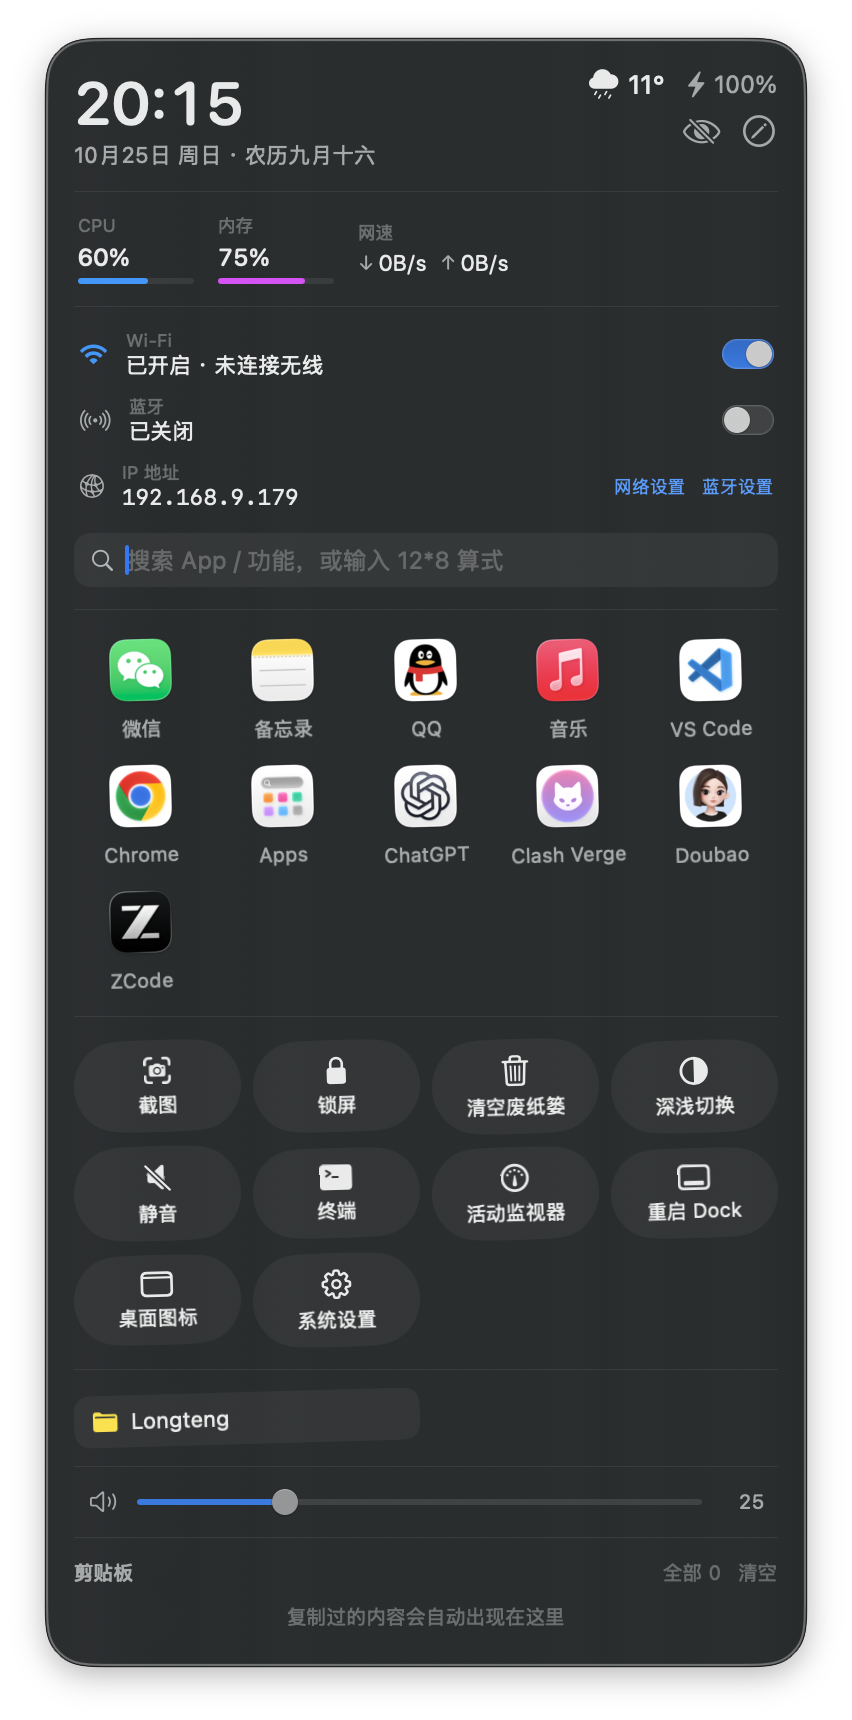
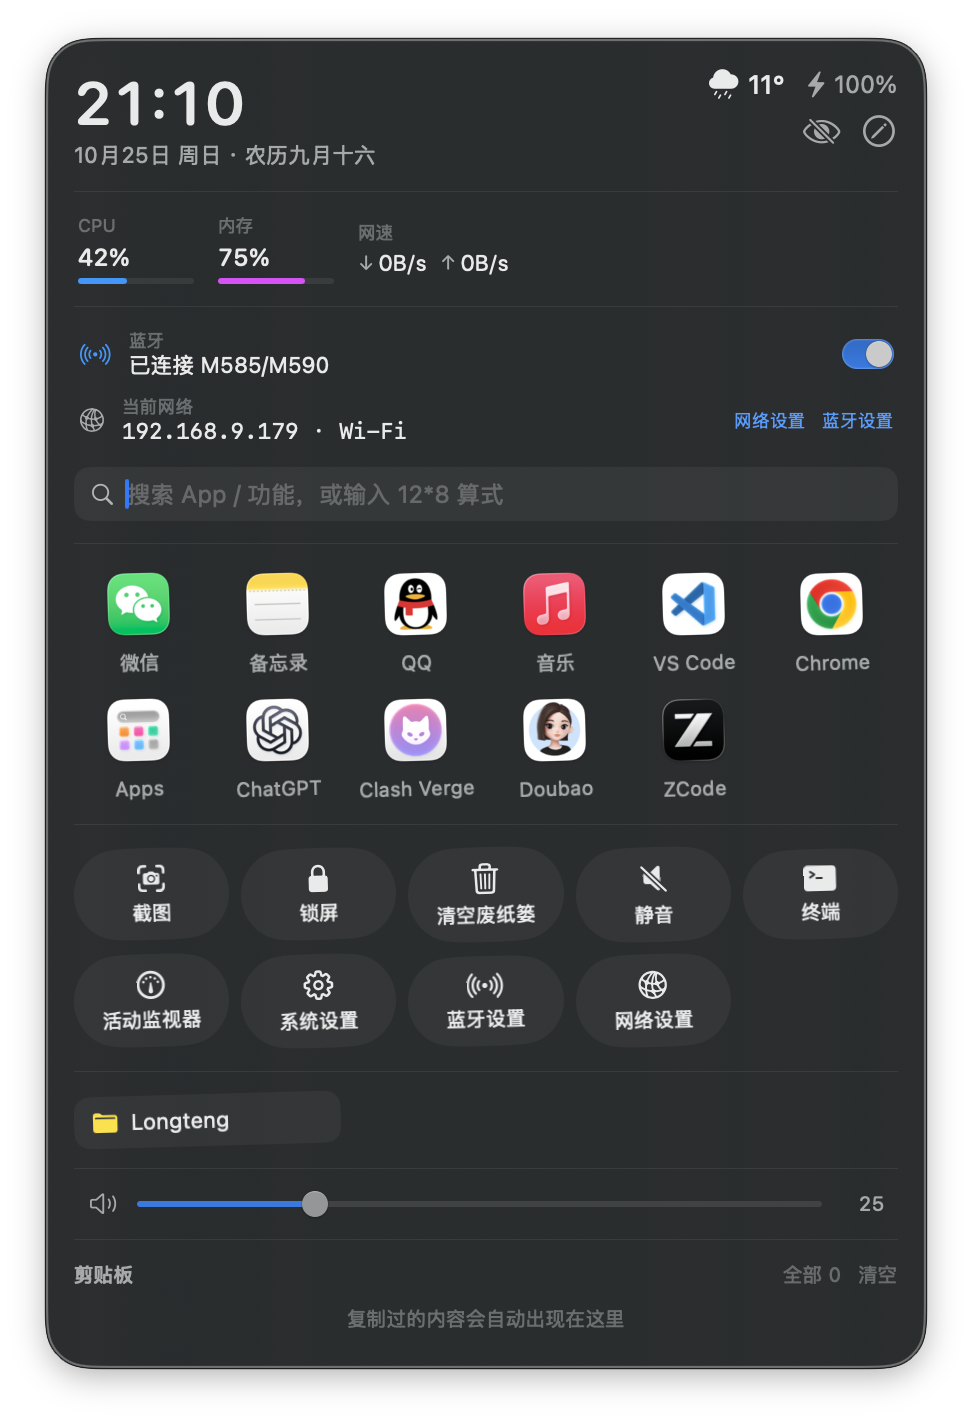
v1.5.2：按需求移除面板 Wi-Fi 开关行
网络区块保留蓝牙开关与当前网络两行；移除 CoreWLAN 依赖，
WiFiControl 精简为纯网络状态（默认路由 + IP + 类型标签）

diff --git a/Sources/QuickDeck/WirelessControl.swift b/Sources/QuickDeck/WirelessControl.swift
@@ -1,16 +1,13 @@
 import AppKit
 import Combine
-import CoreWLAN
 import Darwin
 import IOBluetooth
 import SwiftUI
 
-// MARK: - Wi-Fi / 网络状态控制（networksetup + CoreWLAN + 默认路由）
+// MARK: - 当前网络状态（默认路由接口 + 类型标签；macOS 14+ 下 SSID 探测会被打码误报，不用它）
 
 final class WiFiControl: ObservableObject {
-    @Published private(set) var isOn = false
-    @Published private(set) var ssid: String?
-    /// 当前真正上网用的接口（默认路由），比 SSID 探测可靠——macOS 14+ 无定位权限时 SSID 会被打码甚至误报未关联
+    /// 当前真正上网用的接口（默认路由出口）
     @Published private(set) var primaryInterface: String?
     @Published private(set) var primaryIP: String?
     @Published private(set) var primaryLabel = ""
@@ -28,7 +25,7 @@ final class WiFiControl: ObservableObject {
         )
     }
 
-    /// 从硬件端口列表里找到 Wi-Fi 对应的网卡名（en0 / en1…）
+    /// 从硬件端口列表里找到 Wi-Fi 对应的网卡名（en0 / en1…），用于接口类型标注
     private static func discoverDevice() -> String? {
         portMap()["Wi-Fi"]
     }
@@ -97,13 +94,6 @@ final class WiFiControl: ObservableObject {
 
     func refresh() {
         let ports = Self.portMap()
-        if let device {
-            if let power = runCommand("/usr/sbin/networksetup", ["-getairportpower", device]) {
-                isOn = power.contains("On")
-            }
-            // SSID：CoreWLAN 需要定位授权才给明文，拿不到就显示「已连接」
-            ssid = CWWiFiClient.shared().interface(withName: device)?.ssid()
-        }
         primaryInterface = Self.defaultInterface()
         if let primary = primaryInterface {
             primaryIP = Self.ipv4(of: primary)
@@ -112,18 +102,6 @@ final class WiFiControl: ObservableObject {
             primaryIP = nil
             primaryLabel = ""
         }
-    }
-
-    /// Wi-Fi 是否真实在用（默认路由走 Wi-Fi 网卡），不受 SSID 打码影响
-    var isActuallyConnected: Bool {
-        guard let device else { return false }
-        return primaryInterface == device
-    }
-
-    func toggle() {
-        guard let device else { return }
-        runCommand("/usr/sbin/networksetup", ["-setairportpower", device, isOn ? "off" : "on"])
-        refresh()
     }
 }
 
@@ -196,38 +174,10 @@ struct NetworkSection: View {
 
     var body: some View {
         VStack(spacing: 8) {
-            wifiRow
             bluetoothRow
             ipRow
         }
         .padding(.horizontal, 2)
-    }
-
-    private var wifiRow: some View {
-        HStack(spacing: 8) {
-            Image(systemName: "wifi")
-                .font(.system(size: 12))
-                .foregroundStyle(wifi.isOn ? Color.blue : Color.secondary)
-            VStack(alignment: .leading, spacing: 0) {
-                Text("Wi-Fi").font(.system(size: 9)).foregroundStyle(.tertiary)
-                Text(wifiStatusText)
-                    .font(.system(size: 11))
-                    .lineLimit(1)
-            }
-            Spacer()
-            Toggle("", isOn: Binding(get: { wifi.isOn }, set: { _ in wifi.toggle() }))
-                .toggleStyle(.switch)
-                .controlSize(.mini)
-                .labelsHidden()
-                .help(wifi.device.map { "网卡 \($0)" } ?? "")
-        }
-    }
-
-    /// 按真实在用状态显示；SSID 名称受系统隐私限制（需定位授权），拿不到时显示「已连接」
-    private var wifiStatusText: String {
-        guard wifi.isOn else { return "已关闭" }
-        if let name = wifi.ssid { return name }
-        return wifi.isActuallyConnected ? "已连接" : "已开启 · 未连接"
     }
 
     private var bluetoothRow: some View {

diff --git a/Sources/QuickDeck/SettingsView.swift b/Sources/QuickDeck/SettingsView.swift
@@ -35,7 +35,7 @@ struct SettingsView: View {
 
             Section("显示内容") {
                 Toggle("系统监控（CPU / 内存 / 网速）", isOn: $showMonitor)
-                Toggle("无线网络（Wi-Fi / 蓝牙 / IP）", isOn: $showNetwork)
+                Toggle("网络与蓝牙（当前网络 / 蓝牙开关）", isOn: $showNetwork)
                 Toggle("剪贴板历史", isOn: $showClipboard)
                 Toggle("音量控制", isOn: $showVolume)
                 Toggle("便签", isOn: $showMemo)

diff --git a/Package.swift b/Package.swift
@@ -8,7 +8,7 @@ let package = Package(
         .executableTarget(
             name: "QuickDeck",
             path: "Sources/QuickDeck",
-            linkerSettings: [.linkedFramework("IOBluetooth"), .linkedFramework("CoreWLAN")]
+            linkerSettings: [.linkedFramework("IOBluetooth")]
         )
     ]
 )

diff --git a/README.md b/README.md
@@ -10,9 +10,8 @@
 ## 功能
 
 - **信息条**：时钟 + 日期 + 农历 + 天气（Open-Meteo 免费接口，无需注册）+ 电池电量
-- **系统监控**：CPU 占用 + 内存占用（带迷你进度条）+ 实时网速（↓上行 ↓下行），2 秒刷新，Mach 底层接口无需任何权限
-- **无线网络控制**：Wi-Fi 开关（按默认路由判断真实连接状态，连手机热点/USB 共享网络也能正确显示）、蓝牙开关（显示已连接的设备名）、当前网络 IP 与类型（Wi-Fi / iPhone USB / VPN / 以太网等）、一键直达网络设置 / 蓝牙设置。蓝牙通过系统 IOBluetooth 接口原生控制，首次点击开关时系统会弹一次蓝牙授权，点「允许」即可
-  - Wi-Fi 名称显示受 macOS 隐私限制（需在系统设置里给「快捷台」开启定位权限才会显示具体名称，否则显示「已连接」）
+- **系统监控**：CPU 占用 + 内存占用（带迷你进度条）+ 实时网速（↓下载 ↑上传），2 秒刷新，Mach 底层接口无需任何权限
+- **网络与蓝牙**：蓝牙开关（显示已连接的设备名）、当前网络 IP 与类型（按默认路由判断，Wi-Fi / iPhone USB / VPN / 以太网等，连手机热点也能正确显示）、一键直达网络设置 / 蓝牙设置。蓝牙通过系统 IOBluetooth 接口原生控制，首次点击开关时系统会弹一次蓝牙授权，点「允许」即可
 - **天气详情**：点击面板上的天气温度，查看未来 24 小时逐时预报
 - **省电设计**：面板隐藏（⌥+空格）时自动暂停全部后台轮询（CPU/网速/剪贴板/蓝牙等），呼出时立即恢复并刷新
 - **面板宽度可调**：设置里选 紧凑 320 / 标准 380 / 宽敞 440，App 网格列数自动适应（380 起一行 5 个）
